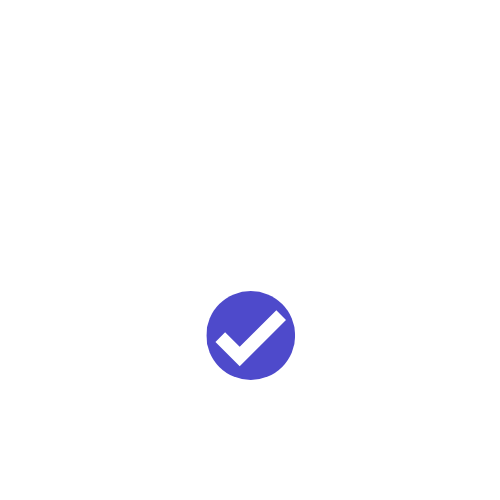
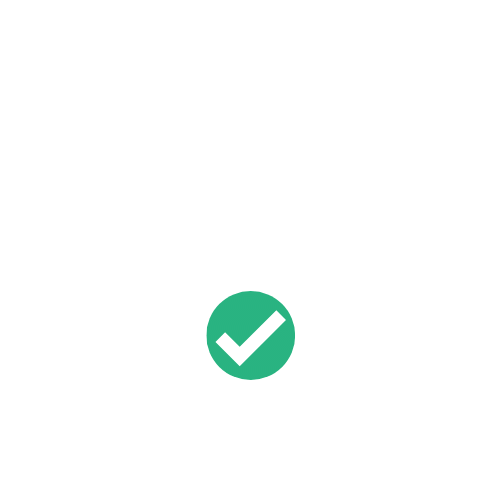
another color change

Changed region(s): [[0.39, 0.57, 0.6, 0.78]]

diff --git a/src/components/Footer.jsx b/src/components/Footer.jsx
@@ -1,6 +1,6 @@
 import React from 'react'
 import { withRouter, Link } from 'react-router-dom'
-import {footerVariants} from '../styles/animations'
+import { footerVariants } from '../styles/animations'
 import IconButton from '@material-ui/core/IconButton';
 import ShowChartIcon from '@material-ui/icons/ShowChart';
 import InfoOutlinedIcon from '@material-ui/icons/InfoOutlined';
@@ -14,39 +14,39 @@ const Footer = ({ location }) => {
   return (
     <motion.div style={styles.footerContainer} variants={footerVariants}
       initial='initial' animate='animate'
-    > 
-    <div style={styles.wrapper}>
-      <p>Home</p>
-      <Link style={styles.iconContainer} to='/dashboard'>
-        <IconButton style={styles.iconButton}>
-          <ShowChartIcon style={styles.icon} />
-        </IconButton>
-      </Link>
-    </div>
+    >
       <div style={styles.wrapper}>
-      <p>About</p>
-      <Link style={styles.iconContainer} to='/about'>
-        <IconButton style={styles.iconButton}>
-          <InfoOutlinedIcon style={styles.icon} />
-        </IconButton>
-      </Link>
-    </div>
+        <Link style={styles.link} to='/dashboard'>
+          <IconButton style={styles.iconButton}>
+            <ShowChartIcon style={styles.icon} />
+          </IconButton>
+          <p>Home</p>
+        </Link>
+      </div>
       <div style={styles.wrapper}>
-      <p>FAQ</p>
-      <Link style={styles.iconContainer} to='/faq'>
-        <IconButton style={styles.iconButton}>
-          <LiveHelpOutlinedIcon style={styles.icon} />
-        </IconButton>
-      </Link>
-    </div>
+        <Link style={styles.link} to='/about'>
+          <IconButton style={styles.iconButton}>
+            <InfoOutlinedIcon style={styles.icon} />
+          </IconButton>
+          <p>About</p>
+        </Link>
+      </div>
       <div style={styles.wrapper}>
-      <p>Profile</p>
-      <Link style={styles.iconContainer} to='/profile'>
-        <IconButton style={styles.iconButton}>
-          <PersonOutlineOutlinedIcon style={styles.icon} />
-        </IconButton>
-      </Link>
-    </div>
+        <Link style={styles.link} to='/faq'>
+          <IconButton style={styles.iconButton}>
+            <LiveHelpOutlinedIcon style={styles.icon} />
+          </IconButton>
+          <p>FAQ</p>
+        </Link>
+      </div>
+      <div style={styles.wrapper}>
+        <Link style={styles.link} to='/profile'>
+          <IconButton style={styles.iconButton}>
+            <PersonOutlineOutlinedIcon style={styles.icon} />
+          </IconButton>
+          <p>Profile</p>
+        </Link>
+      </div>
     </motion.div>
   )
 }
@@ -59,9 +59,9 @@ const styles = {
     display: 'flex',
     justifyContent: 'space-evenly',
     alignItems: 'center',
-    height: '15vh',
+    height: '10vh',
     width: '100%',
-    backgroundColor: '#115293',
+    backgroundColor: '#09393d',
     zIndex: 2,
     boxShadow: '0px -5px 10px black',
     color: 'white'
@@ -75,13 +75,12 @@ const styles = {
     height: 35,
     width: 35,
   },
-  iconContainer: {
-    border: '2px solid white',
-    borderRadius: '25%',
-    boxShadow: '5px 7px 5px',
-    marginTop: 3,
-  },
   iconButton: {
-    display: 'flex',
+    padding: 0
+  },
+  link: {
+    textDecoration: 'none',
+    color: 'white',
+    textAlign: 'center'
   }
 }

diff --git a/src/components/StrategyGraph.jsx b/src/components/StrategyGraph.jsx
@@ -72,14 +72,14 @@ const StrategyGraph = ({ data }) => {
         <CartesianGrid strokeDasharray="3" />
         <defs>
           <linearGradient id="gain" x1="0" y1="0" x2="0" y2="1">
-            <stop offset="20%" stopColor="#115293" stopOpacity={0.9} />
-            <stop offset="95%" stopColor="#4e4acb" stopOpacity={0} />
+            <stop offset="20%" stopColor="#29b380" stopOpacity={0.9} />
+            <stop offset="95%" stopColor="#09393d" stopOpacity={0} />
           </linearGradient>
         </defs>
         <XAxis dataKey="year" />
         <YAxis />
         <Tooltip />
-        <Area type="monotone" dataKey="Gain" stroke="#4e4acb" fill="url(#gain)" />
+        <Area type="monotone" dataKey="Gain" stroke="#29b380" fill="url(#gain)" />
       </AreaChart>
     </div >
   )
@@ -91,7 +91,7 @@ const styles = {
   graphContainer: {
     marginTop: 80,
     padding: 5,
-    backgroundColor: 'rgba(45, 40, 61)',
+    backgroundColor: '#072229',
     borderRadius: 10,
   },
   stratContainer: {
@@ -100,9 +100,9 @@ const styles = {
     fontSize: 15,
   },
   button: {
-    backgroundColor: '#115293',
+    backgroundColor: '#09393d',
     color: 'white',
-    border: '2px solid #115293',
+    border: '1px solid #29b380',
     boxShadow: 'inset 0 0 10px #202031',
     fontWeight: 'bold',
     width: '55%',

diff --git a/src/views/Dashboard.jsx b/src/views/Dashboard.jsx
@@ -12,8 +12,8 @@ const Dashboard = () => {
     >
 
       <p style={{ ...globals.title, marginBottom: 50 }}>Welcome to Aegis</p>
-      <CustomButton text='Protect a stock you are interested in' link={{ pathname: '/funds', state: {flow: 'own'}}} margin={'25px 50px'} backgroundColor='#115293' />
-      <CustomButton text='Protect a stock we recommend for you' link={{ pathname: '/funds', state: {flow: 'recommended'} }} margin={'25px 50px'} backgroundColor='#115293' />
+      <CustomButton text='Protect a stock you are interested in' link={{ pathname: '/funds', state: {flow: 'own'}}} margin={'25px 50px'} backgroundColor='#09393d' />
+      <CustomButton text='Protect a stock we recommend for you' link={{ pathname: '/funds', state: {flow: 'recommended'} }} margin={'25px 50px'} backgroundColor='#09393d' />
 
     </motion.div>
   )

diff --git a/src/shared/VideoModal.jsx b/src/shared/VideoModal.jsx
@@ -47,7 +47,7 @@ export default VideoModal
 
 const styles = {
   modalButton: {
-    backgroundColor: '#115293',
+    backgroundColor: '#09393d',
     color: 'white',
     fontWeight: 'bold',
     borderRadius: 10,
@@ -56,7 +56,7 @@ const styles = {
     width: '40%',
     height: '100%',
     margin: '0px 10px',
-    border: '2px solid #115293',
+    border: '2px solid #29b380',
     boxShadow: 'inset 0 0 10px #202031'
   },
   modalContainer: {
@@ -66,8 +66,8 @@ const styles = {
   },
   closeButton: {
     position: 'relative',
-    backgroundColor: '#115293',
-    border: '2px solid #115293',
+    backgroundColor: '#09393d',
+    border: '2px solid #29b380',
     color: 'white',
     fontWeight: 'bold',
     boxShadow: 'inset 0 0 10px #202031',

diff --git a/src/index.css b/src/index.css
@@ -11,7 +11,7 @@
 
 body {
   overflow: hidden;
-  background: #202031;
+  background: #041b20;
 }
 
 span {
@@ -23,11 +23,11 @@ span {
 }
 
 .MuiAutocomplete-clearIndicator > .MuiIconButton-label {
-  color:  #202031
+  color:  #041b20
 }
 
 .MuiAutocomplete-popupIndicator > .MuiIconButton-label {
-  color:  #202031
+  color:  #041b20
 }
 
 .recharts-text {
@@ -45,6 +45,6 @@ span {
   border-radius: 15px;
 }
 ::-webkit-scrollbar-thumb {
-  background: #3f51b5;
+  background: #29b380;
   border-radius: 10px;
 }

diff --git a/src/views/Profile.jsx b/src/views/Profile.jsx
@@ -90,7 +90,7 @@ const styles = {
     marginTop: 50,
     width: '90%',
     height: 150,
-    backgroundColor: 'rgba(45, 40, 61)',
+    backgroundColor: '#072229',
     borderRadius: 10,
     borderTopLeftRadius: '25%',
     borderBottomLeftRadius: '25%'
@@ -99,7 +99,7 @@ const styles = {
     padding: 25,
   },
   strategyList: {
-    backgroundColor: 'rgba(45, 40, 61)',
+    backgroundColor: '#072229',
     borderRadius: 10,
     width: '90%',
     height: 'auto',

diff --git a/src/shared/CustomButton.jsx b/src/shared/CustomButton.jsx
@@ -13,7 +13,7 @@ const CustomButton = ({ text, link, ...props }) => {
     },
     buttonContainer: {
       textDecoration: 'none',
-      border: '2px solid #115293',
+      border: '2px solid #29b380',
       padding: '5px 15px',
       borderRadius: 25,
       margin: props.margin ? props.margin : 10,

diff --git a/README.md b/README.md
@@ -1,8 +1,10 @@
 ## Styles:
 
-Main color: #4e4acb
-Dark paper color: rgba(45, 40, 61)
-Dark background color: #202031
+Main color: #29b380
+Secondary color: #09393d
+Dark paper color: #072229
+Dark background color: #041b20
+
 
 TO-DO:
 - Graph design?
